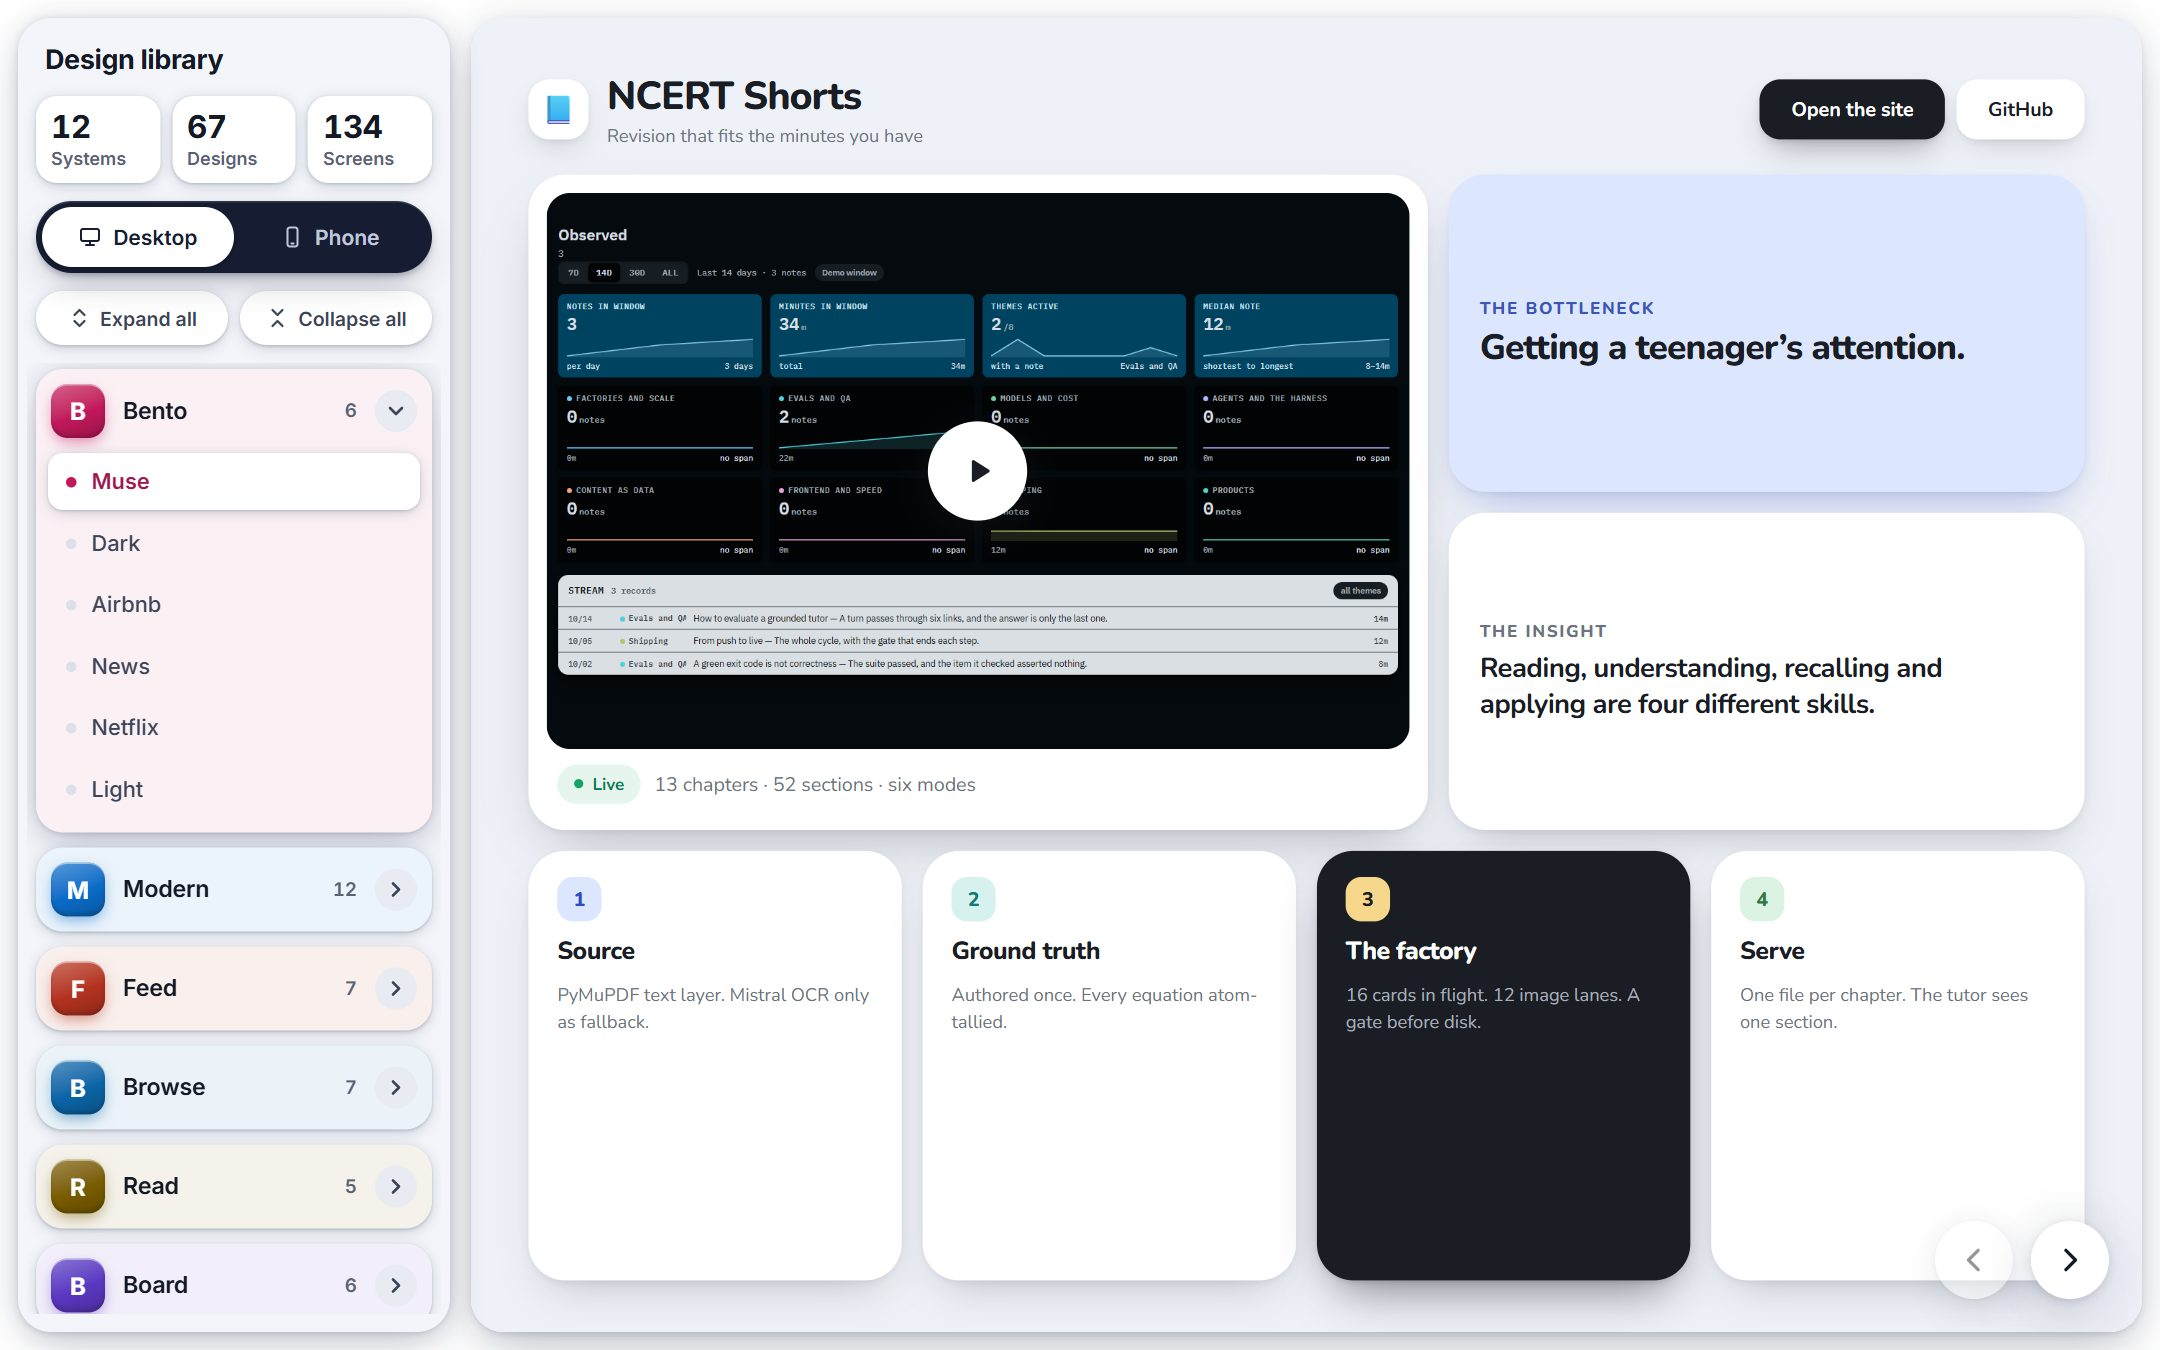
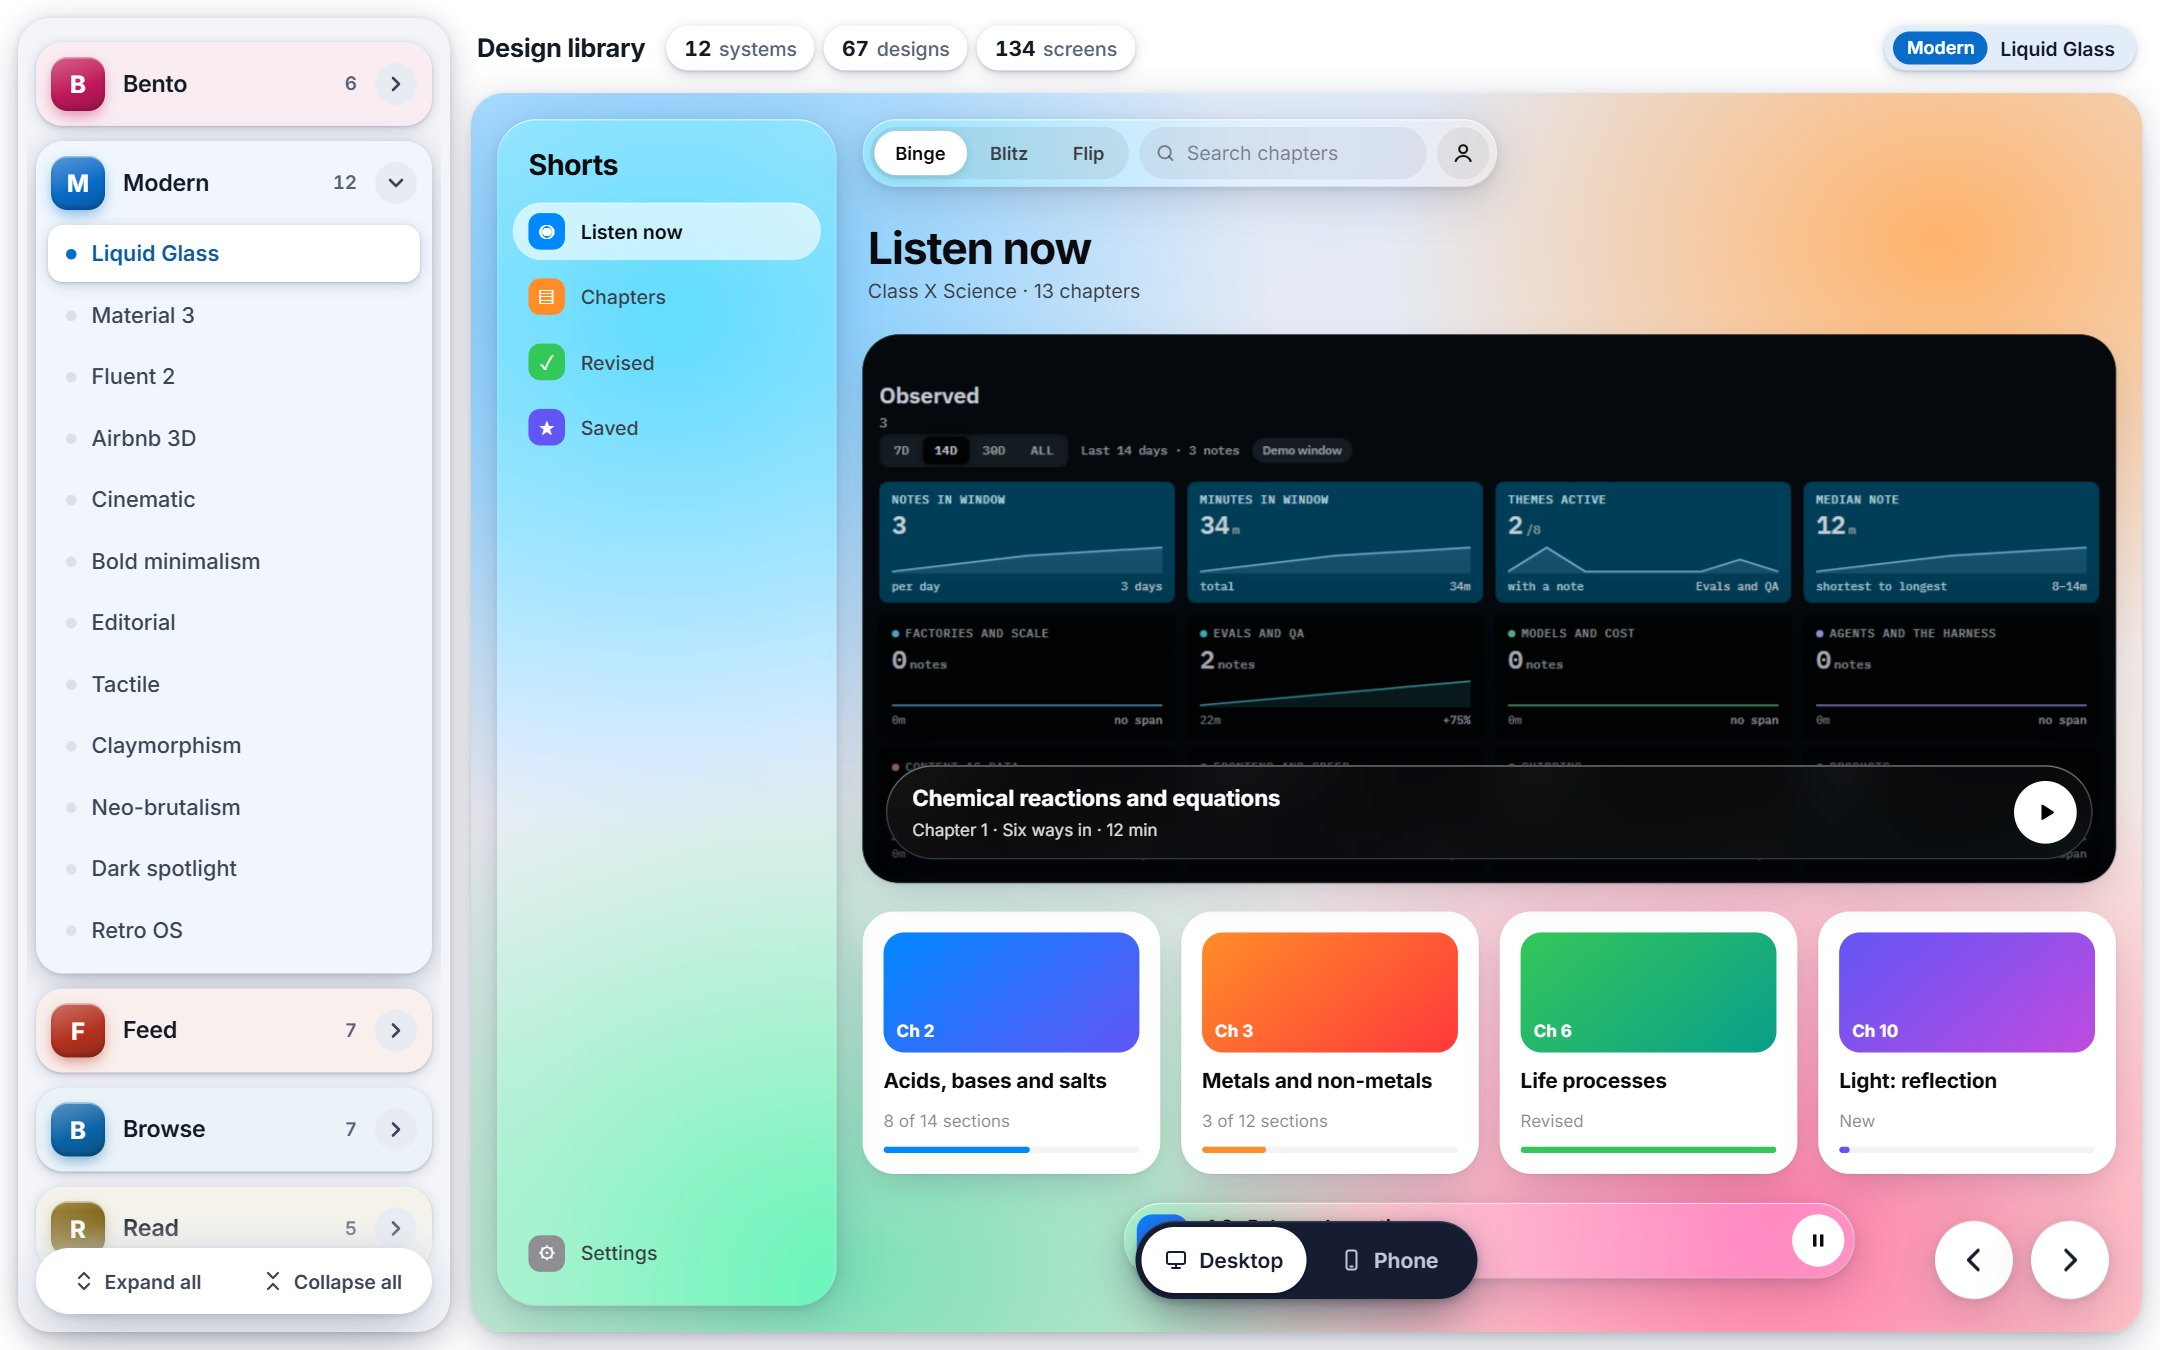
New layout: numbers in a strip at the top, floating Desktop/Phone and Expand/Collapse; fresh pictures

diff --git a/README.md b/README.md
@@ -107,9 +107,9 @@ The design fills the screen. The round button at the top opens the list of syste
 
 | Where | What it is | What to do with it |
 |---|---|---|
-| Top of the panel | The library in three numbers | A quick sense of what is there |
-| Desktop / Phone | The width the design is shown at | Check both before you choose |
-| Expand all / Collapse all | Opens or closes every system card | Scan everything, or keep the panel short |
+| The strip at the top | The library in three numbers, and the design showing now | A quick sense of what is there, and where you are |
+| Desktop / Phone, floating over the design | The width the design is shown at | Check both before you choose |
+| Expand all / Collapse all, floating at the foot of the panel | Opens or closes every system card | Scan everything, or keep the panel short |
 | A system card | A family of designs that share a shape | Open it to see its designs; hover it for what it is for |
 | The stage | The chosen design, filling the window | Scroll it, click it, judge it |
 | The round arrows | The previous and next design | Step through the library without the panel |
